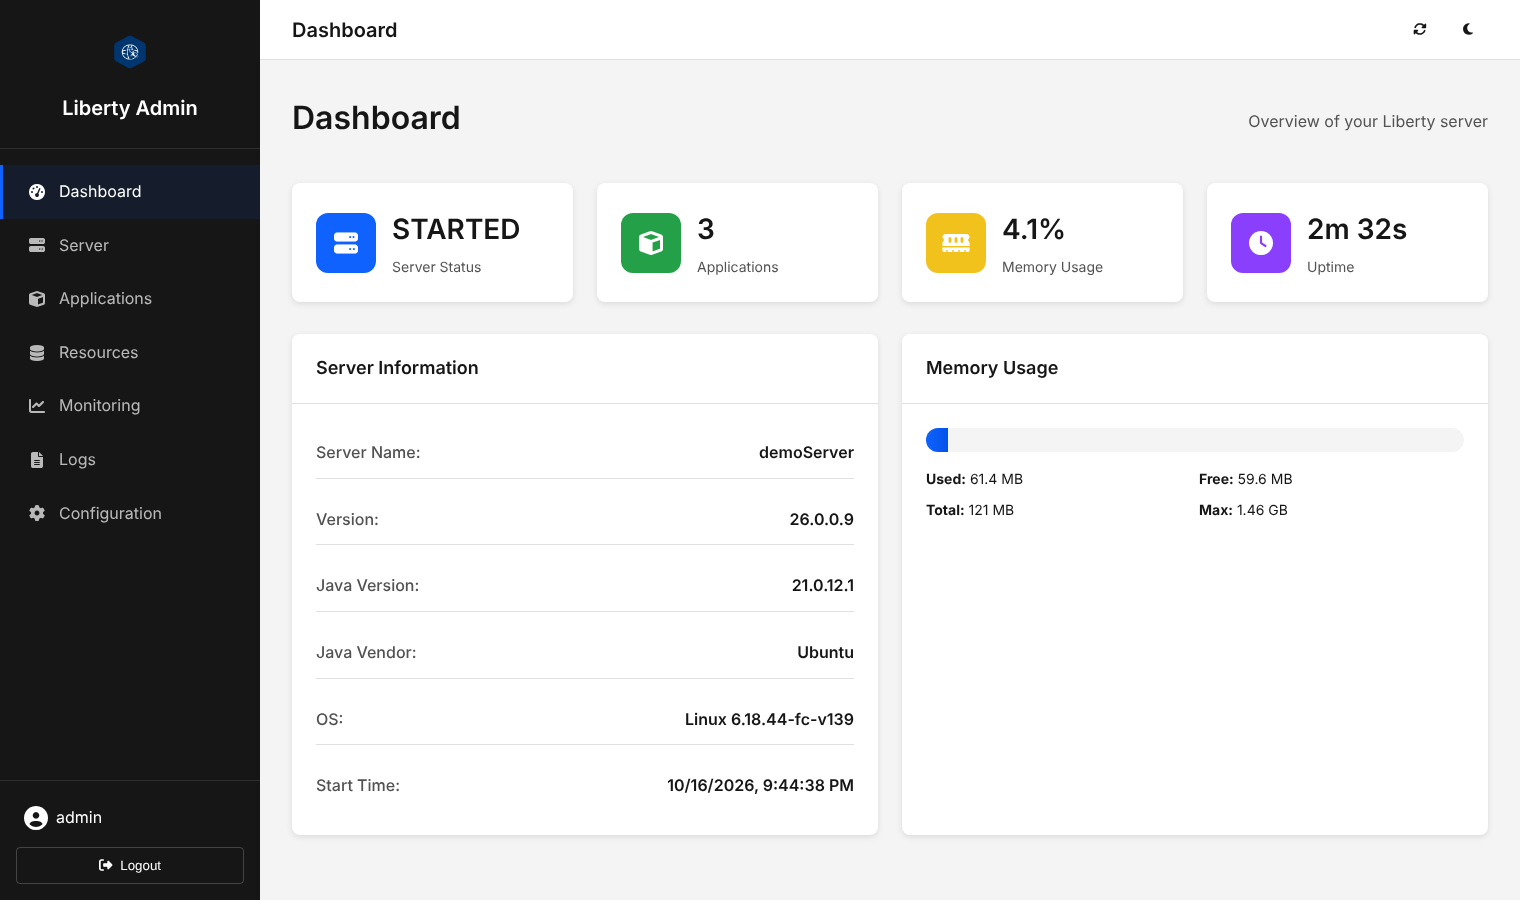
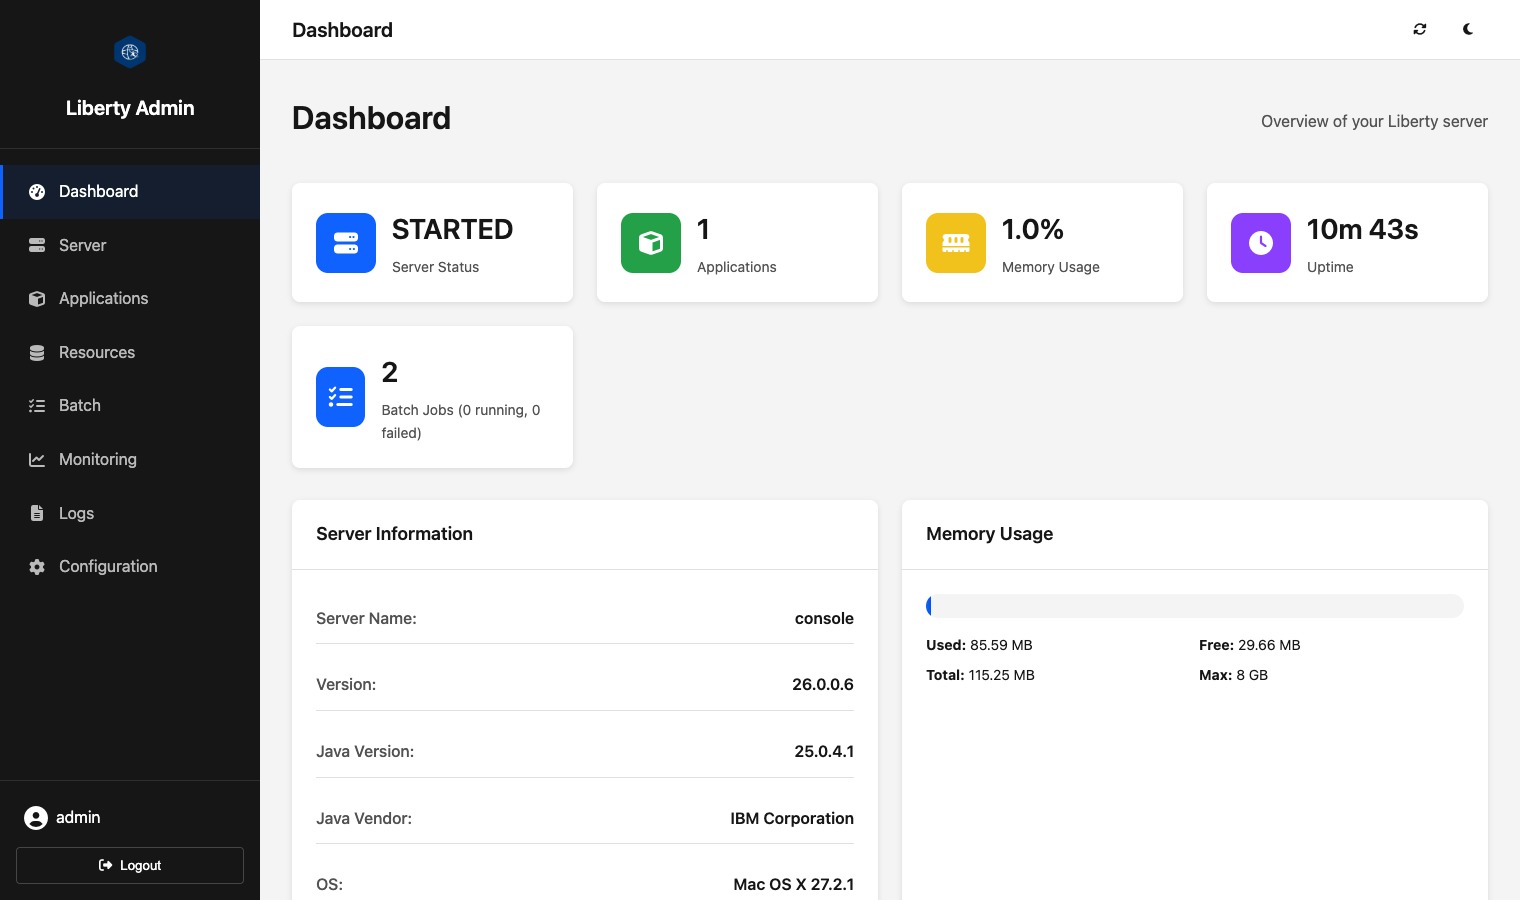
add new images and updated readme

diff --git a/README.md b/README.md
@@ -21,21 +21,34 @@ remove), resources, batch jobs, monitoring, logs and a configuration editor. The
 
 ## Screenshots
 
-Taken on an Open Liberty 26.0.0.9 server with `mpMetrics-5.1` and three sample applications,
-after two minutes of steady traffic.
+Taken on a running Liberty 26.0.0.6 server (Java 25) with the `jakartaBatchExample`
+application deployed and `mpMetrics-5.1` enabled.
 
-**Dashboard**: server status, applications, memory and uptime at a glance.
+**Dashboard**: server status, applications, memory, uptime and batch jobs at a glance.
 
 ![Dashboard](docs/images/dashboard.png)
 
-**Monitoring**: memory, CPU, thread and garbage-collection charts refreshed every 10 seconds,
-and per-application request counts, response times, errors and request rates.
+**Server**: server details, with Run GC and Thread Dump actions.
 
-![Monitoring](docs/images/monitoring.png)
+![Server](docs/images/server.png)
 
 **Applications**: every application on the server, with start, stop, restart and undeploy.
 
 ![Applications](docs/images/applications.png)
+
+**Batch**: Jakarta Batch job instances with their status and executions.
+
+![Batch](docs/images/batch.png)
+
+**Monitoring**: memory, CPU, thread and garbage-collection charts refreshed every 10 seconds,
+and per-application request metrics.
+
+![Monitoring](docs/images/monitoring.png)
+
+**Configuration**: edit `server.xml` and other configuration files in the browser. A backup is
+created before every save.
+
+![Configuration](docs/images/configuration.png)
 
 ## Quick start
 
